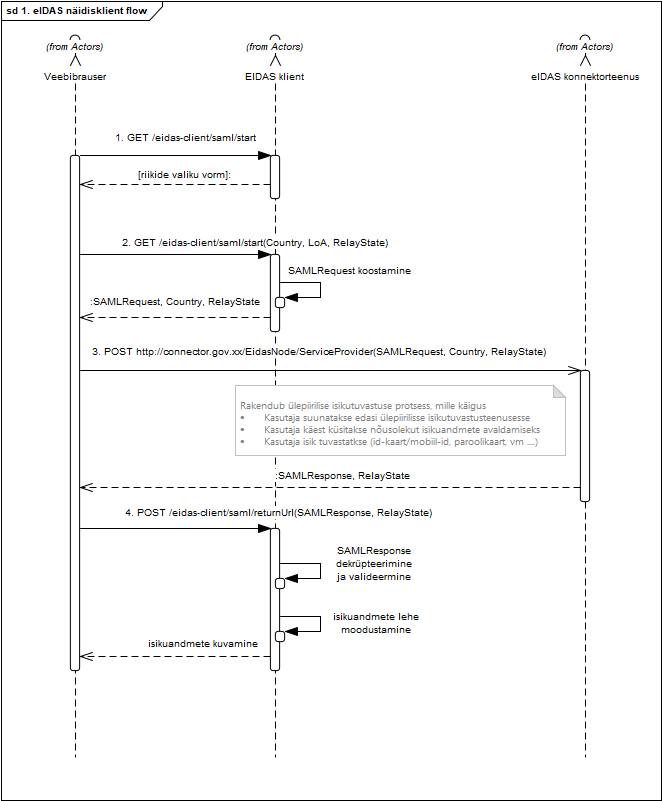
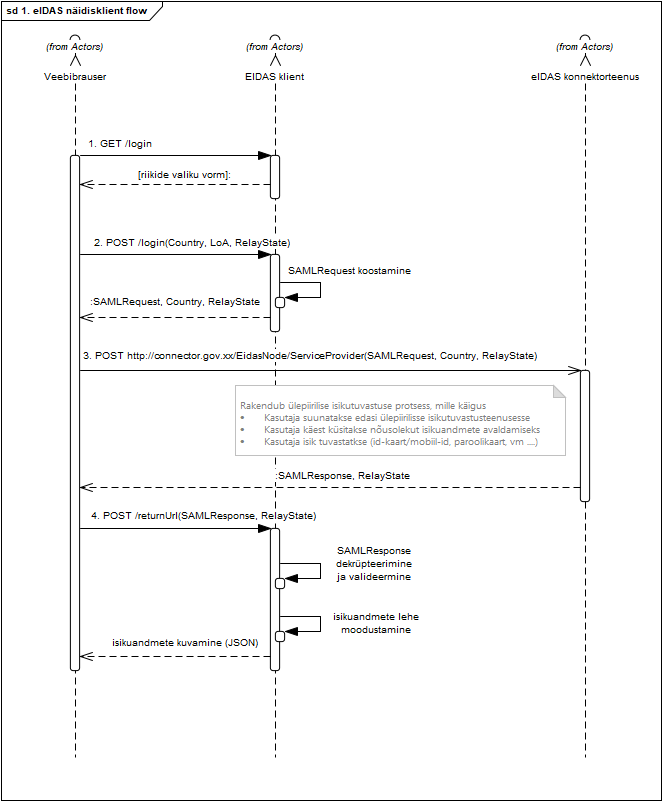
TARAEI-29 - update

diff --git a/README.md b/README.md
@@ -76,7 +76,7 @@ Lihtsustatult toimib isikutuvastusprotsess eIDAS kliendi ja eIDAS konnektorteenu
 
 3. Sirvik suunab kasutaja automaatselt eIDAS konnektorteenusesse koos `SAMLRequest`, `RelayState` ja `Country` parameetritega, kus teostatakse järgnevate sammudena ära kogu ülepiirilise isikutuvastuse sammud. Sealhulgas suunatakse kasutaja ümber sihtriigi eIDAS Node teenusesse, vajadusel küsitakse kasutaja nõusolekut andmete avaldamiseks ning teostatakse isikutuvastus.
 
-4. Peale ülepiirilise isikutuvastusprotsessi läbimist suunab eIDAS konnektorteenus tulemuse eIDAS kliendi `/returnUrl` aadressile, koos `SAMLResponse` ja `RelayState` parameetriga. eIDAS klient valideerib vastuse, dekrüpteerib sisu ning kuvab tuvastatud isiku andmed. NB! Vorming on juhitav `RelayState` parameetri abil (inimloetav kuju, vs masinloetav)
+4. Peale ülepiirilise isikutuvastusprotsessi läbimist suunab eIDAS konnektorteenus tulemuse eIDAS kliendi `/returnUrl` aadressile, koos `SAMLResponse` ja `RelayState` parameetriga. eIDAS klient valideerib vastuse, dekrüpteerib sisu ning kuvab tuvastatud isiku andmed.
 
 <img src='doc/img/EidasClient-Isikutuvastus.png'>
 Joonis 1.
@@ -85,7 +85,7 @@ Joonis 1.
 -----------
 
 Eidas klient paketeeritakse war failina.
-Eidas kliendi teenuskiht toetub [pac4j](https://github.com/pac4j/pac4j) ja [Spring Security](https://projects.spring.io/spring-security/) alusteekidele. (Vt teekide valiku põhjendused [TARAEI-16](https://jira.ria.ee/browse/TARAEI-16)  &#128273;).
+Eidas kliendi teenuskiht toetub [OpenSAML 3](https://wiki.shibboleth.net/confluence/display/OS30/Home) ja [Spring Boot](https://projects.spring.io/spring-boot/) alusteekidele. (Vt teekide valiku põhjendused [TARAEI-16](https://jira.ria.ee/browse/TARAEI-16)  &#128273;).
 
 <img src='doc/img/EidasClient.png'></img>
 
@@ -97,8 +97,7 @@ Joonis 2.
 
 | Otspunkt        | Toetatud meetodid | Selgitus  |
 | ------------- | :------: | :-------------|
-| `/login`  | GET |	  Kuvab inimloetava HTML vormi riigivalikuga, mille esitamisel algatatakse isikutuvastusprotsessi. Lisaparameetrite loetelu vt LISA 1. |
-| `/login`  | POST |	Algatab isikutuvastusprotsessi valitud riigi eIDAS sõlmpunkti vastu. |
+| `/login`  | GET, POST |	  GET meetodil pöördudes kuvatakse inimloetav HTML vormi riigivalikuga, mille esitamisel algatatakse isikutuvastusprotsessi. <br><br>POST meetodil pöördudes algatatakse isikutuvastusprotsess valitud riigi eIDAS sõlmpunkti vastu. Lisaparameetrite loetelu vt LISA 1. |
 | `/returnUrl`  | POST |	Isikutuvastuse tulemuse vastuvõtt. Isikuandmete või vea kuvamine vastavalt parameetritele (vt LISA 1). |
 | `/metadata`  | GET |	SAML 2.0 standardijärgne metadata otspunkt. Vajalik eIDAS konnektorteenuse ja kliendi vahelise usalduse loomiseks. |
 Tabel 1.
@@ -121,7 +120,7 @@ Tabel 2.
 
 Rakenduse käivitamiseks vajalikud tegevused (eeldab Java 1.8+):
 
-1. Tõmba lähtekood
+1. Hangi lähtekood
 `git clone https://github.com/e-gov/eIDAS-Client.git`
 2. Ehita veebirakendus
 `mvn clean install`
